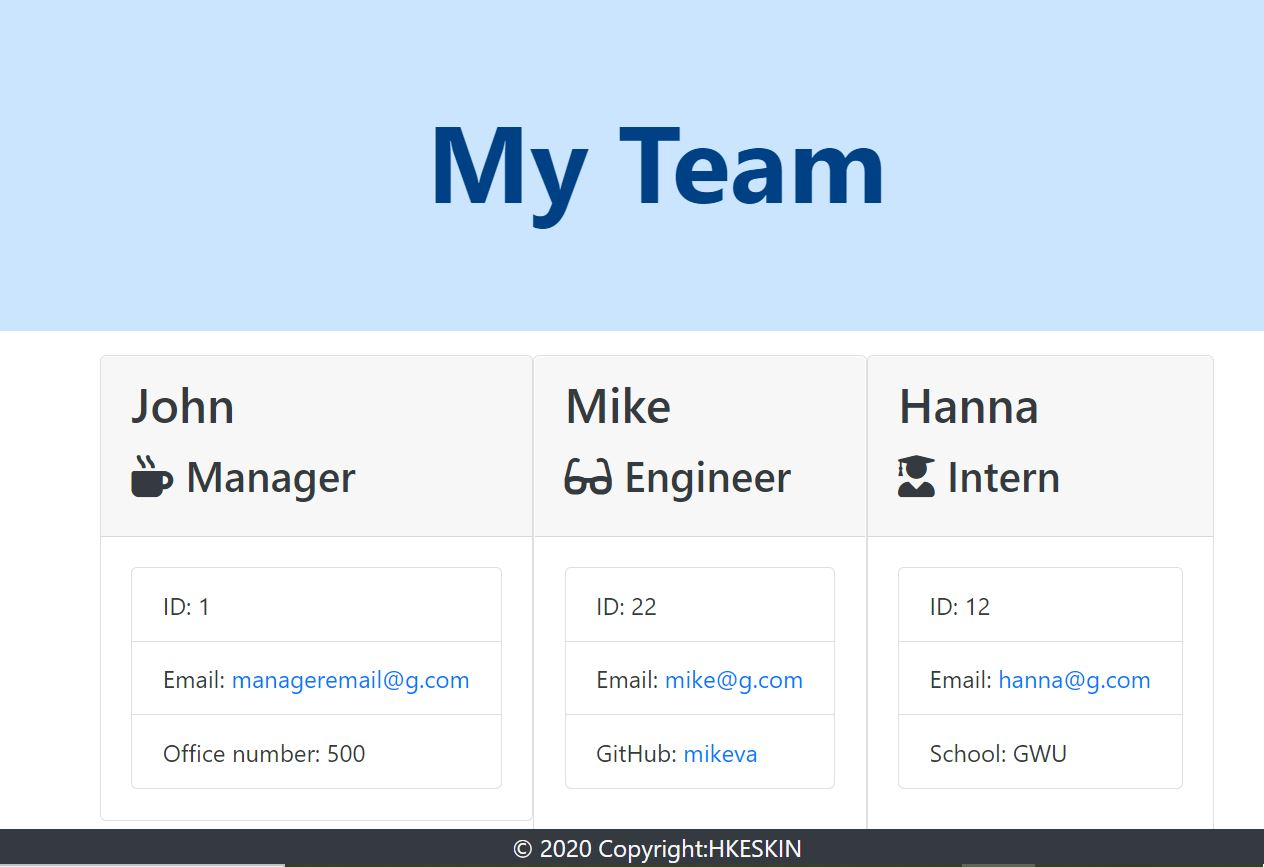
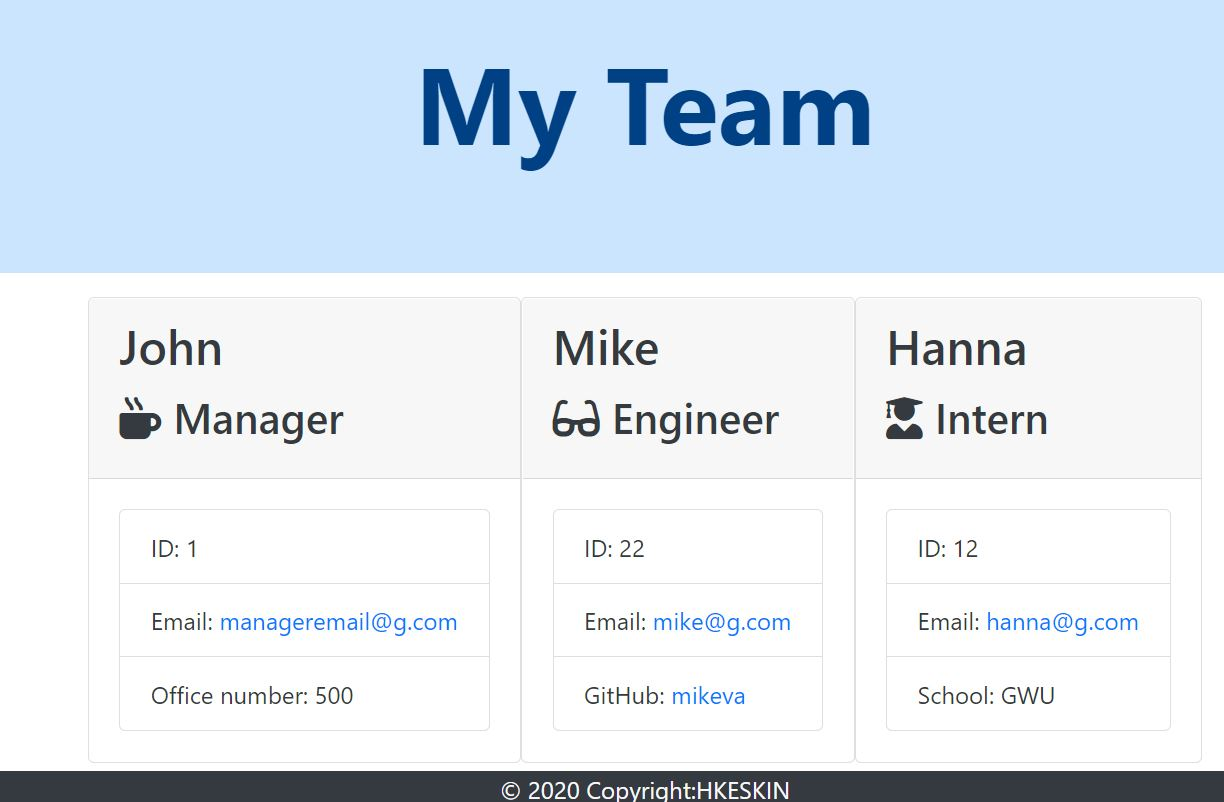
readme title  edited screenshot fixed manager card space

diff --git a/templates/manager.html b/templates/manager.html
@@ -11,18 +11,3 @@
         </ul>
     </div>
 </div>
-
-
-<!-- <div class="card employee-card mb-2 rounded">
-    <div class="card-header">
-        <h2 class="card-title">{{ name }}</h2>
-        <h3 class="card-title"><i class="fas fa-mug-hot mr-2"></i>{{ role }}</h3>
-    </div>
-    <div class="card-body text-primary">
-        <ul class="list-group">
-            <li class="list-group-item">ID: {{ id }}</li>
-            <li class="list-group-item">Email: <a href="mailto:{{ email }}">{{ email }}</a></li>
-            <li class="list-group-item">Office number: {{ officeNumber }}</li>
-        </ul>
-    </div>
-</div> -->

diff --git a/output/team.html b/output/team.html
@@ -24,7 +24,7 @@
             <div class="team-area col-12 d-flex text-dark justify-content-center">
 
 
-<div class="card employee-card  mb-2 rounded">
+<div class="card employee-card ">
     <div class="card-header">
         <h2 class="card-title">John</h2>
         <h3 class="card-title"><i class="fas fa-mug-hot mr-2"></i>Manager</h3>

diff --git a/README.md b/README.md
@@ -1,4 +1,4 @@
-# Template Engine - Employee Summary
+# Team Profile Generator
 
 ## Description
 
